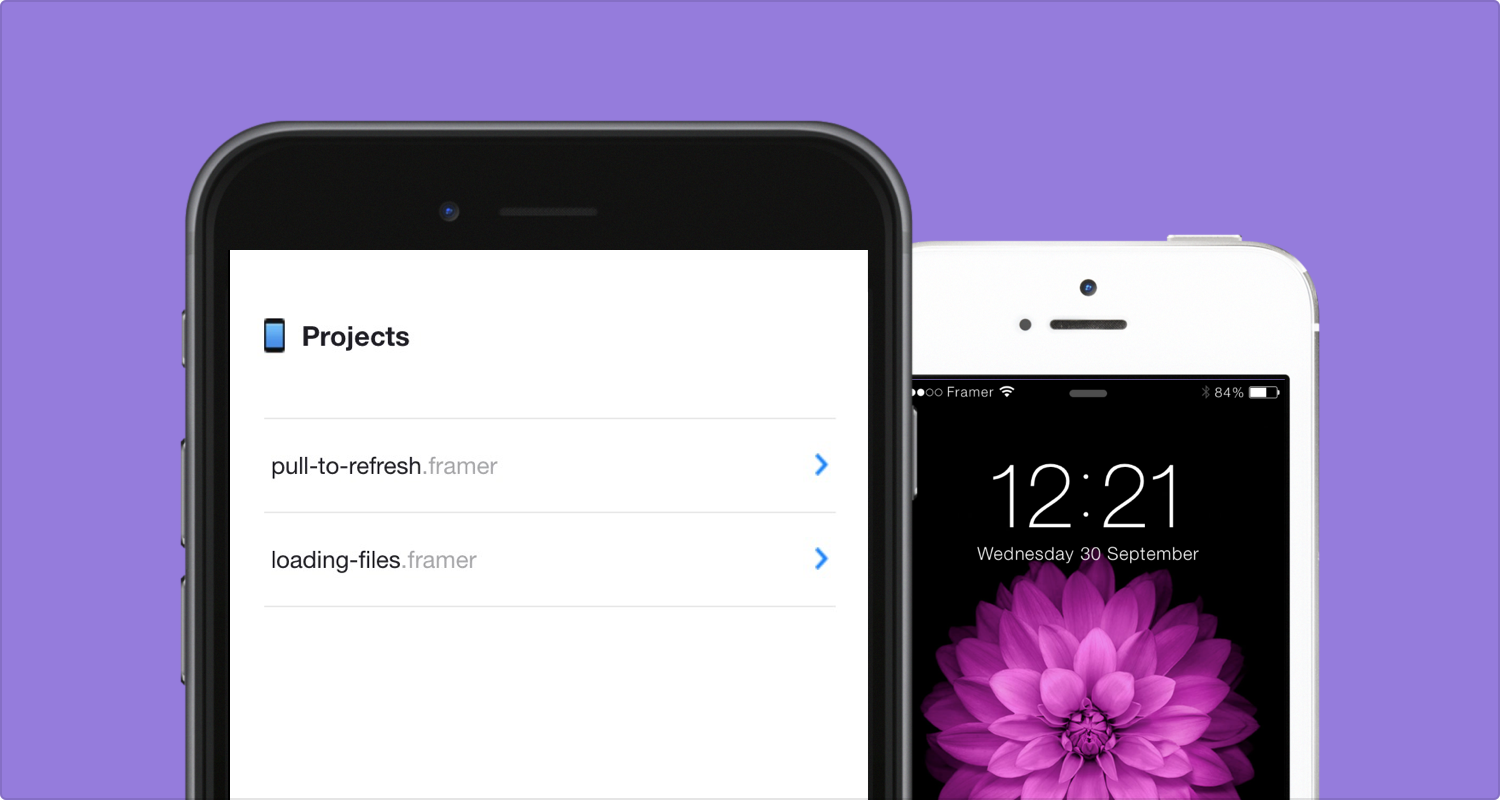
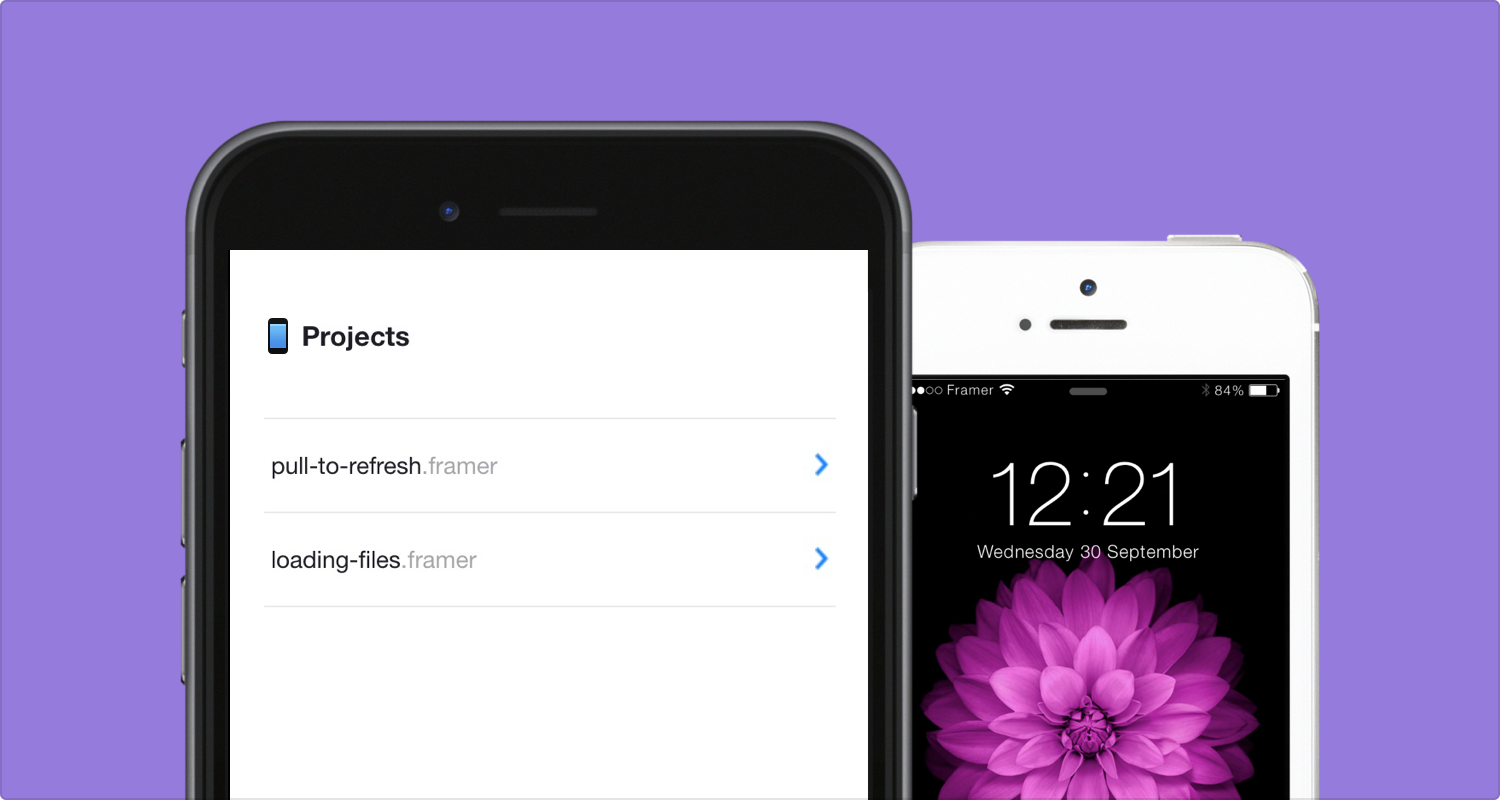
Content, CSS, Clean-Up, Link

diff --git a/pages/learn/preview/apps/index.html b/pages/learn/preview/apps/index.html
@@ -18,7 +18,7 @@
 {% block body %}
 {% filter pygmentify %}
 {% filter markdown %}
-### Previewing Apps
+### Apps
 
 Get the best previewing experience on mobile devices with apps designed especially for previewing prototypes with Framer.
 
@@ -33,7 +33,7 @@ Get the best previewing experience on mobile devices with apps designed especial
 
 <div class="inline-image"><img src="/static/images/learn/banner-learn-framerandroid.png" srcset="/static/images/learn/banner-learn-framerandroid@2x.png 2x"></div>
 
-<a href="#"><img src="/static/images/learn/btn-learn-googleplay.png" srcset="/static/images/learn/btn-learn-googleplay@2x.png 2x"></a>
+<a href="#"><img class="store-btn" src="/static/images/learn/btn-learn-googleplay.png" srcset="/static/images/learn/btn-learn-googleplay@2x.png 2x"></a>
 
 ---
 
@@ -46,18 +46,16 @@ Get the best previewing experience on mobile devices with apps designed especial
 
 <div class="inline-image"><img src="/static/images/learn/banner-learn-frameless.png" srcset="/static/images/learn/banner-learn-frameless@2x.png 2x"></div>
 
-<a href="#"><img src="/static/images/learn/btn-learn-appstore.png" srcset="/static/images/learn/btn-learn-appstore@2x.png 2x"></a>
+<a href="https://itunes.apple.com/us/app/id933580264"><img class="store-btn" src="/static/images/learn/btn-learn-appstore.png" srcset="/static/images/learn/btn-learn-appstore@2x.png 2x"></a>
 
 
 ---
 
-##### On Browser
+##### Browse Prototypes
 
-If you've sent yourself the link to your prototype via email or message, opening it on your mobile device automatically launches the browser with your prototype. And with the new **Handoff** feature in iOS8, opening the link on your Mac also grants you quick access on mobile.
+To see all of your active documents within a web browser, simply remove your project name from the URL to get to the root of the server.
 
-To see all of your active documents, simply remove your project name from the URL to get to the root of the server.
-
-<div class="inline-image"><img class="ss-mirror-iphone" src="/static/images/learn/ss-mirror-iphone.png" srcset="/static/images/learn/ss-mirror-iphone@2x.png 2x"></div>
+<div class="inline-image"><img src="/static/images/learn/ss-mirror-iphone.png" srcset="/static/images/learn/ss-mirror-iphone@2x.png 2x"></div>
 
 On iOS, you can add your project to your Homescreen by tapping the Share button and then "Add to Home Screen". This allows you to view your prototypes without browser chrome.
 

diff --git a/static/css/pages/subpages.scss b/static/css/pages/subpages.scss
@@ -315,11 +315,20 @@ p.full-width{
 // Inline images
 .inline-left {
 	float: left;
-	margin-right: 60px;
+	margin-right: 40px;
+	margin-top: -8px;
+}
+.text-with-inline-image  {
+	margin-bottom: 32px;
+}
+// Store buttons, in Apps
+.store-btn {
+	margin-top: 8px;
 }
 .text-with-inline-image p {
-	max-width: 660px; // Fix float bu
+	max-width: 660px; // Fix float bug
 }
+
 hr.hidden {
 	border-bottom-color: #fff;
 	margin: $space24 auto;
